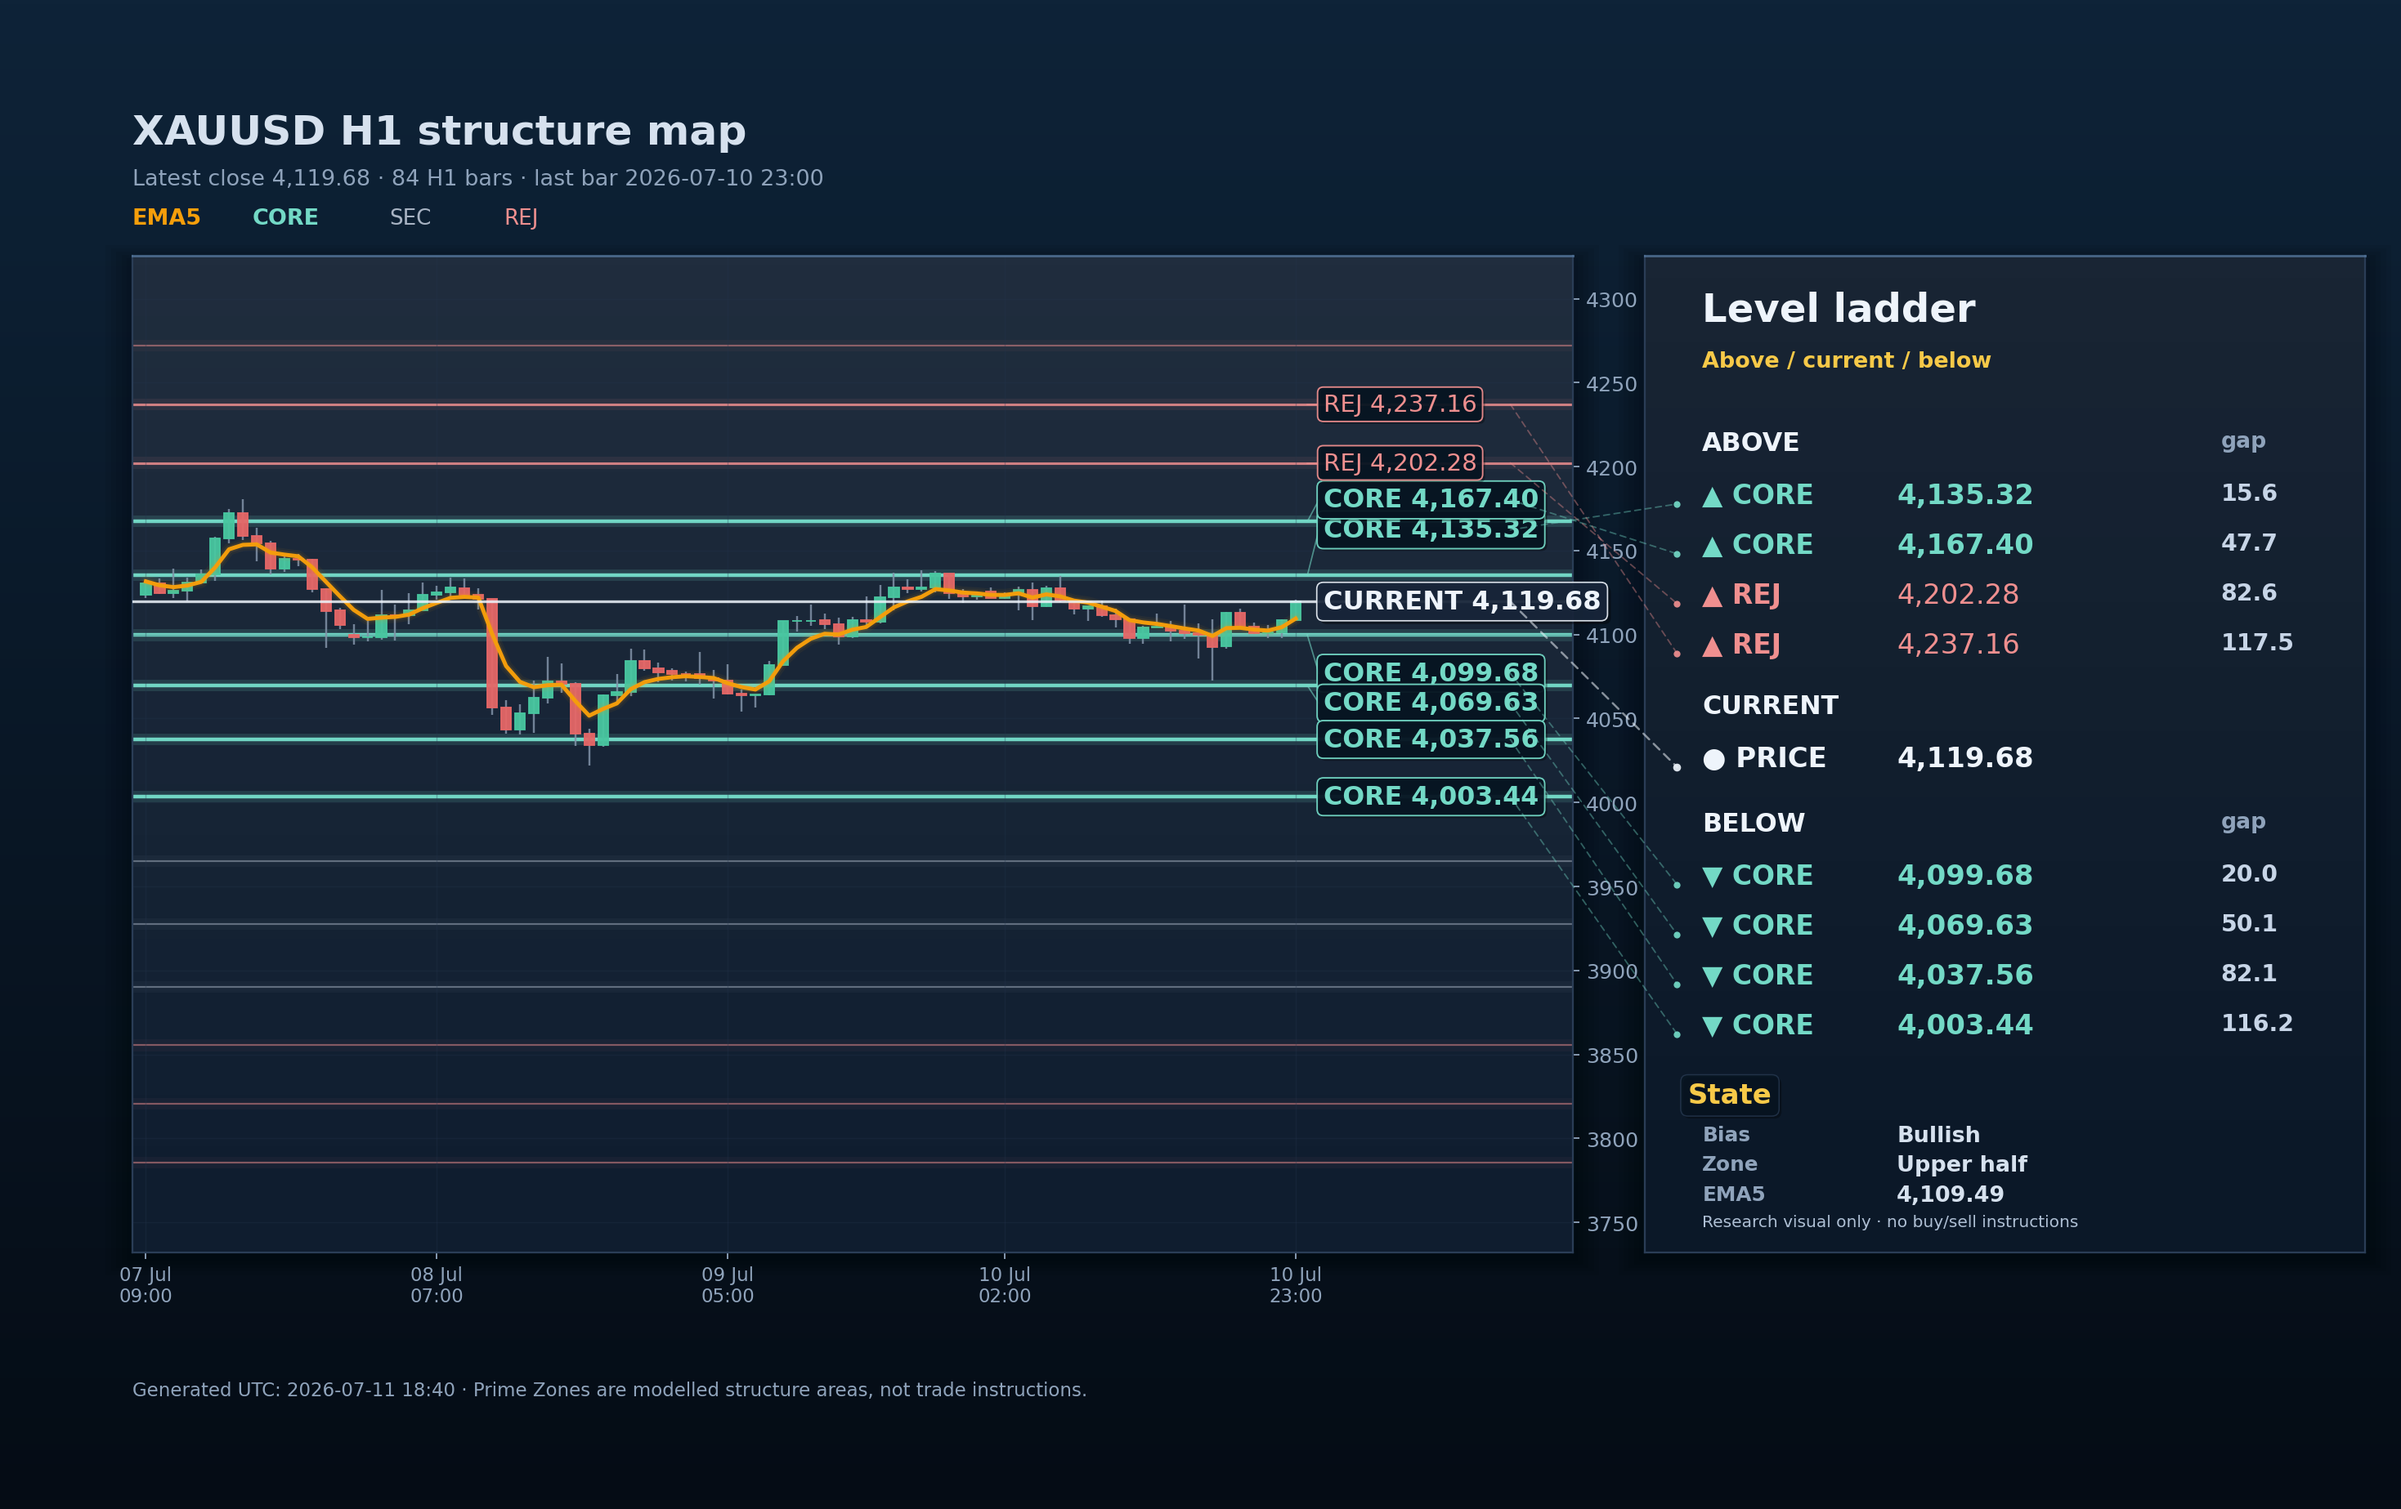
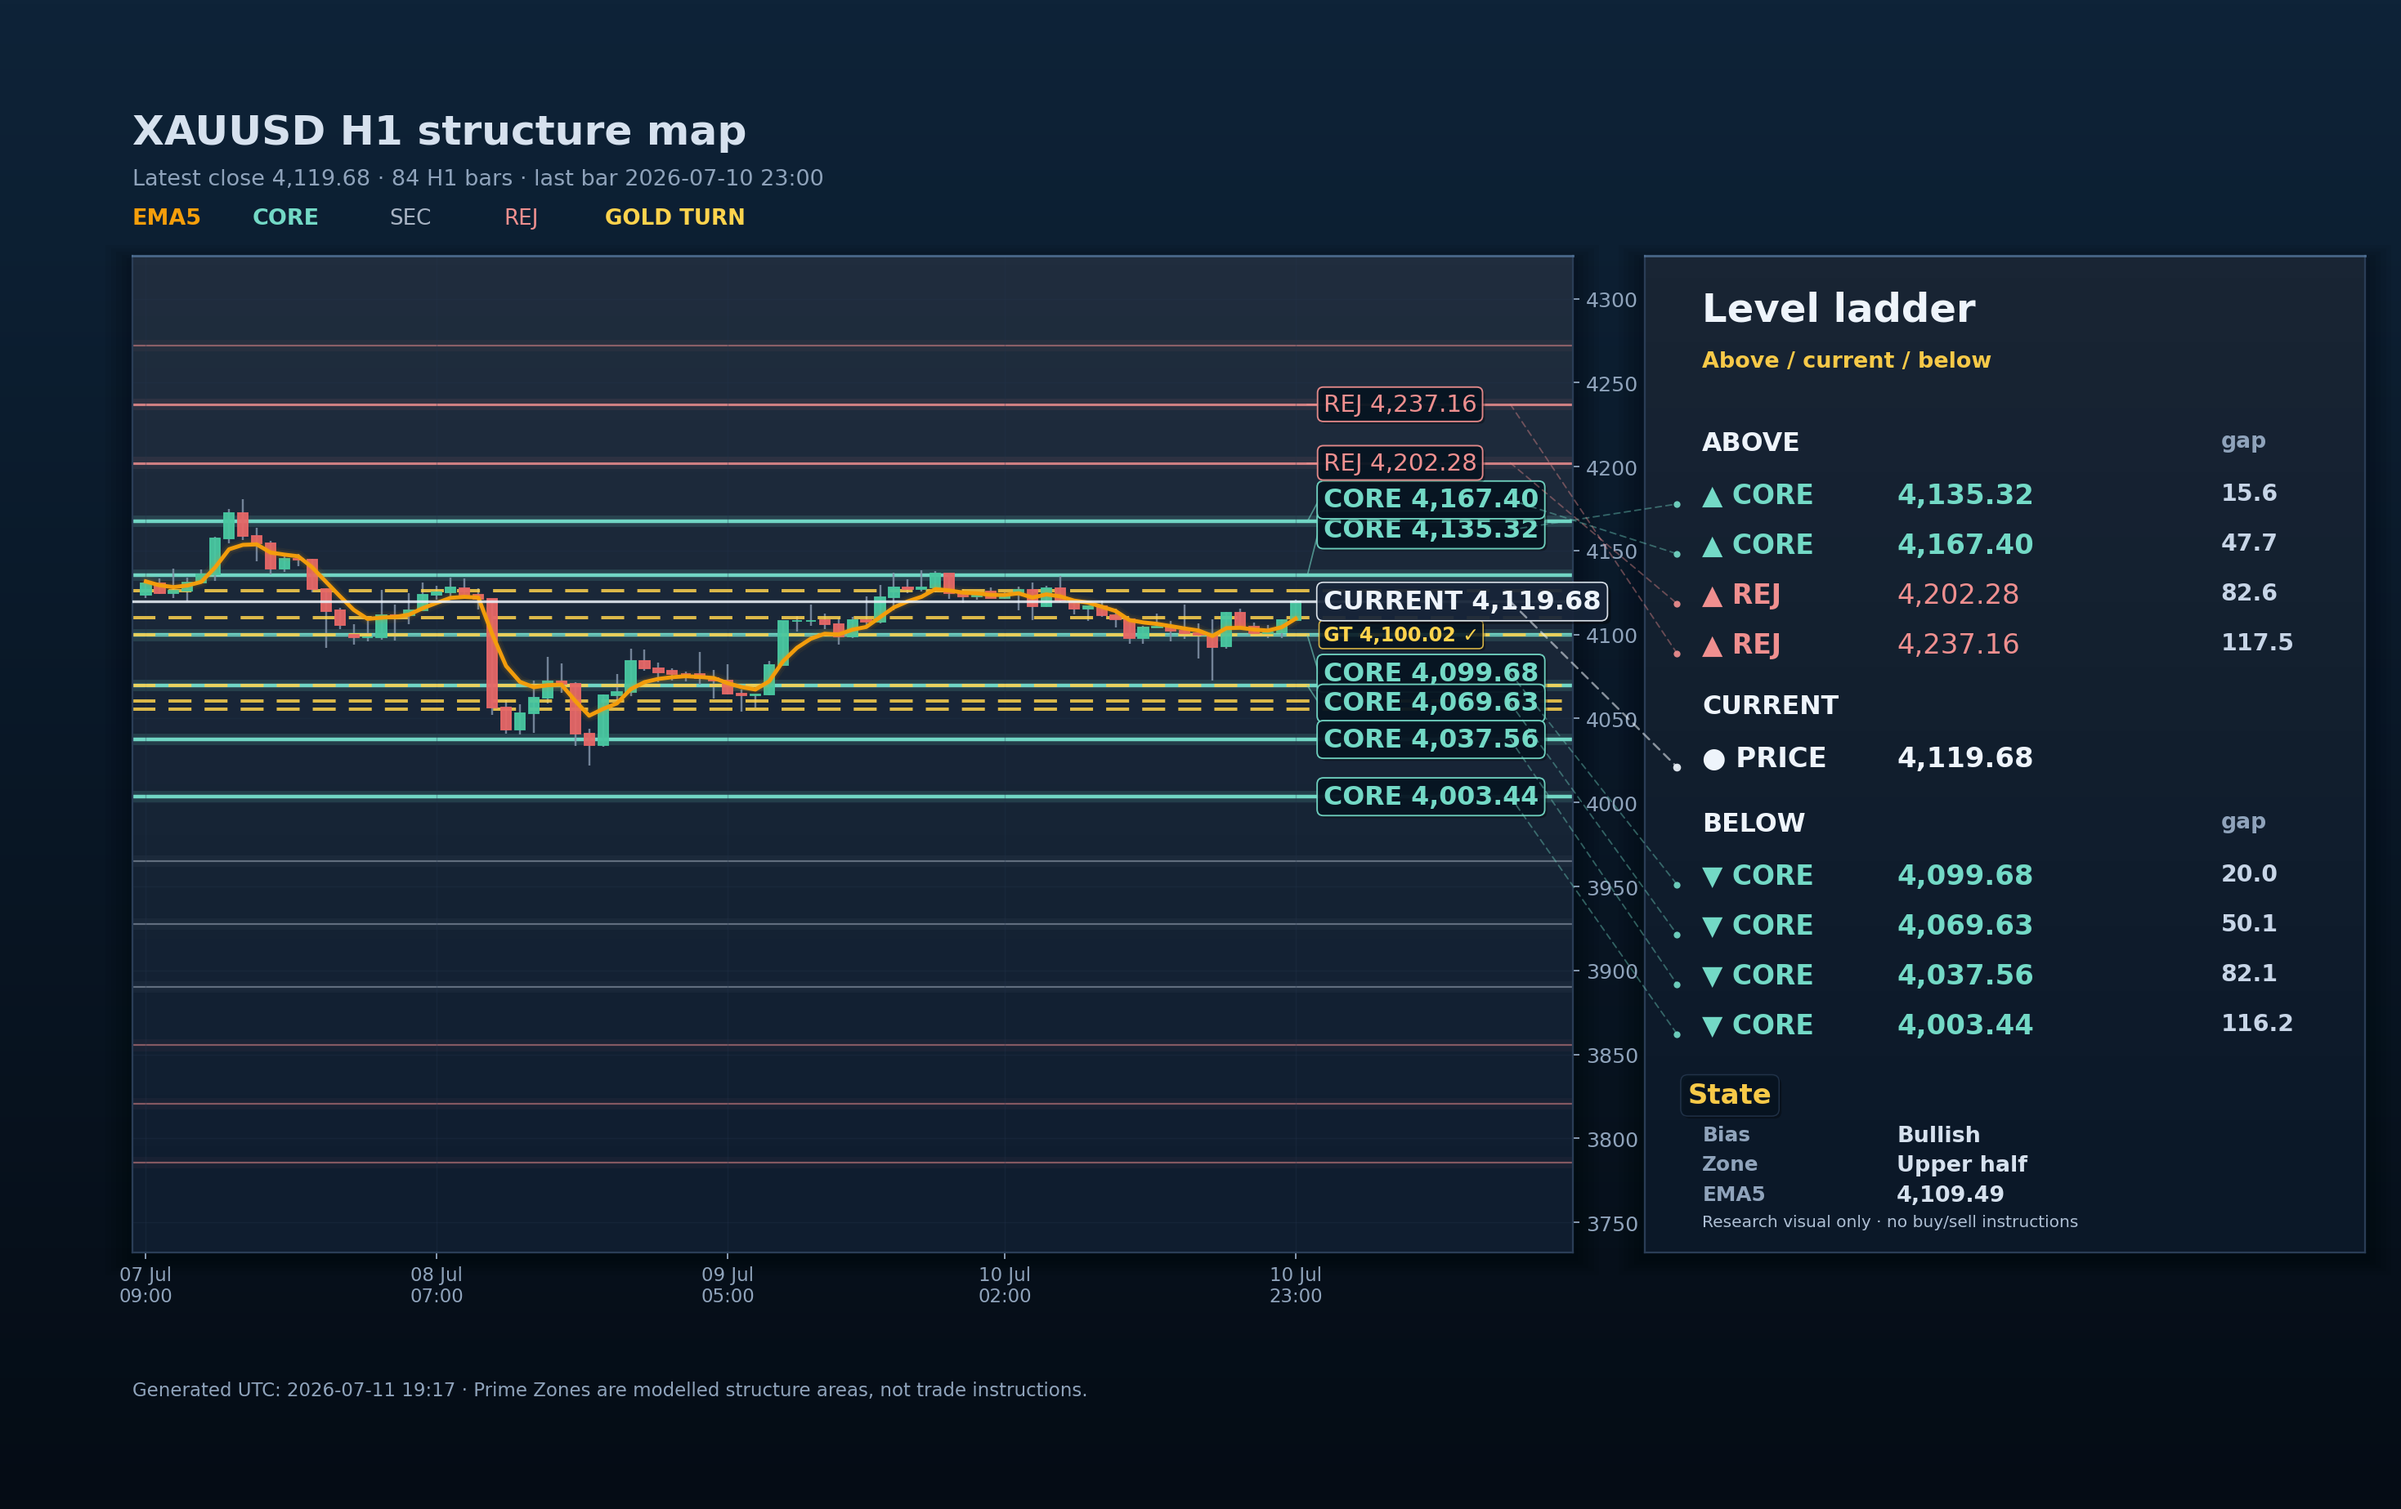
Add weekly Gold Turns: zone-state tracking + dedicated live chart page
EMA5 slope-reversal pivots from prior weeks, frozen once per week
(reconstructed from an abandoned parallel branch, fixing a template
bug that would have crashed the page on first render). Each turn now
carries a "touched" flag - has price wick-touched it since it formed,
reflecting the zone-unlock idea where EMA5 crossing a turn tends to
open the next one in sequence.

New members-weekly-goldturns.html has its own live candlestick+EMA5
chart with the turns overlaid (solid/checked when touched, faint
dotted when still pending), linked from the main dashboard's research
tools grid. Also overlaid on the main structure chart (PNG + live).

Changed region(s): [[0.5267, 0.4012, 0.6197, 0.4321], [0.2479, 0.1234, 0.3098, 0.1543]]

diff --git a/assets/pvfx-goldturns-chart.js b/assets/pvfx-goldturns-chart.js
@@ -1,0 +1,103 @@
+(function () {
+  'use strict';
+
+  var DATA_URL = './data/charts/primeviewfx_members_chart_data_latest.json';
+  var POLL_MS = 45000;
+
+  var COLORS = {
+    bg: '#0f1d2f',
+    grid: '#24354d',
+    text: '#d6e1ee',
+    up: '#48c7a0',
+    down: '#e66767',
+    wick: '#8192a8',
+    ema: '#f59e0b',
+    goldturn: '#ffd34d'
+  };
+
+  function fmtPrice(p) {
+    return Number(p).toLocaleString('en-US', { minimumFractionDigits: 2, maximumFractionDigits: 2 });
+  }
+
+  var chart = null, candleSeries = null, emaSeries = null, priceLines = [];
+
+  function ensureChart(container) {
+    if (chart) return chart;
+    chart = LightweightCharts.createChart(container, {
+      autoSize: true,
+      layout: { background: { type: LightweightCharts.ColorType.Solid, color: COLORS.bg }, textColor: COLORS.text },
+      grid: { vertLines: { color: COLORS.grid }, horzLines: { color: COLORS.grid } },
+      timeScale: { timeVisible: true, secondsVisible: false, borderColor: '#2a3d56' },
+      rightPriceScale: { borderColor: '#2a3d56' },
+      crosshair: { mode: LightweightCharts.CrosshairMode.Normal }
+    });
+    candleSeries = chart.addSeries(LightweightCharts.CandlestickSeries, {
+      upColor: COLORS.up, downColor: COLORS.down, borderVisible: false,
+      wickUpColor: COLORS.wick, wickDownColor: COLORS.wick
+    });
+    emaSeries = chart.addSeries(LightweightCharts.LineSeries, {
+      color: COLORS.ema, lineWidth: 2, priceLineVisible: false, lastValueVisible: false
+    });
+    return chart;
+  }
+
+  function renderGoldturns(goldturns) {
+    priceLines.forEach(function (pl) { candleSeries.removePriceLine(pl); });
+    priceLines = [];
+    (goldturns || []).forEach(function (g) {
+      var touched = !!g.touched;
+      priceLines.push(candleSeries.createPriceLine({
+        price: g.level,
+        color: COLORS.goldturn,
+        lineWidth: touched ? 2 : 1,
+        lineStyle: touched ? LightweightCharts.LineStyle.Dashed : LightweightCharts.LineStyle.SparseDotted,
+        axisLabelVisible: true,
+        title: (touched ? 'GT ✓ ' : 'GT ') + fmtPrice(g.level)
+      }));
+    });
+  }
+
+  function setStatus(el, text, isError) {
+    el.textContent = text;
+    el.classList.toggle('err', !!isError);
+  }
+
+  function load(chartEl, statusEl) {
+    var url = DATA_URL + '?t=' + Date.now();
+    fetch(url, { cache: 'no-store' })
+      .then(function (r) { if (!r.ok) throw new Error('HTTP ' + r.status); return r.json(); })
+      .then(function (data) {
+        ensureChart(chartEl);
+        candleSeries.setData(data.candles);
+        emaSeries.setData(data.ema5);
+        renderGoldturns(data.goldturns);
+        var gen = new Date(data.generated_utc);
+        var stamp = isNaN(gen.getTime()) ? data.generated_utc : gen.toISOString().slice(0, 16).replace('T', ' ') + ' UTC';
+        var touchedCount = (data.goldturns || []).filter(function (g) { return g.touched; }).length;
+        var total = (data.goldturns || []).length;
+        setStatus(statusEl, 'Live · data generated ' + stamp + ' · close ' + fmtPrice(data.latest_close) +
+          ' · ' + touchedCount + '/' + total + ' turns touched this week · refreshes automatically', false);
+      })
+      .catch(function (err) {
+        setStatus(statusEl, 'Could not load live data (' + err.message + ') — showing the last successful load, if any.', true);
+      });
+  }
+
+  function init() {
+    var chartEl = document.getElementById('pvfx-gt-chart');
+    var statusEl = document.getElementById('pvfx-gt-status');
+    if (!chartEl || !statusEl) return;
+    if (typeof LightweightCharts === 'undefined') {
+      setStatus(statusEl, 'Live chart library failed to load.', true);
+      return;
+    }
+    load(chartEl, statusEl);
+    setInterval(function () { load(chartEl, statusEl); }, POLL_MS);
+  }
+
+  if (document.readyState === 'loading') {
+    document.addEventListener('DOMContentLoaded', init);
+  } else {
+    init();
+  }
+})();

diff --git a/members-dashboard.html b/members-dashboard.html
@@ -227,9 +227,9 @@
     .pvfx-clean-chart-foot strong{color:#bcd6f7!important}
     .pvfx-level-key{margin:10px 0 0!important;padding:10px 12px!important;border:1px solid rgba(148,163,184,.20)!important;border-radius:14px!important;background:rgba(15,23,42,.52)!important;box-sizing:border-box!important}
     .pvfx-level-key-title{margin:0 0 7px!important;color:#f7c948!important;font-size:.72rem!important;font-weight:850!important;letter-spacing:.09em!important;text-transform:uppercase!important}
-    .pvfx-level-key-grid{display:grid!important;grid-template-columns:repeat(5,minmax(0,1fr))!important;gap:8px!important;color:#9fb2c9!important;font-size:.72rem!important;line-height:1.25!important}
+    .pvfx-level-key-grid{display:grid!important;grid-template-columns:repeat(6,minmax(0,1fr))!important;gap:8px!important;color:#9fb2c9!important;font-size:.72rem!important;line-height:1.25!important}
     .pvfx-level-key-grid b{display:block!important;margin-bottom:2px!important;font-size:.72rem!important;letter-spacing:.04em!important}
-    .pvfx-key-core{color:#5eead4!important}.pvfx-key-sec{color:#94a3b8!important}.pvfx-key-rej{color:#f87171!important}.pvfx-key-current{color:#e5e7eb!important}.pvfx-key-gap{color:#cbd5e1!important}
+    .pvfx-key-core{color:#5eead4!important}.pvfx-key-sec{color:#94a3b8!important}.pvfx-key-rej{color:#f87171!important}.pvfx-key-current{color:#e5e7eb!important}.pvfx-key-gap{color:#cbd5e1!important}.pvfx-key-goldturn{color:#ffd34d!important}
     .pvfx-qa-compliance-note{width:min(2520px,calc(100vw - 8px));margin:0 auto 34px auto;padding:14px 18px;border:1px solid rgba(148,163,184,.24);border-radius:16px;background:rgba(15,23,42,.55);color:#94a3b8;font-size:13px;line-height:1.55;box-sizing:border-box}
     .pvfx-live-wrap{display:flex!important;flex-direction:row!important;gap:14px!important;align-items:stretch!important;padding:10px!important;box-sizing:border-box!important}
     .pvfx-live-chart-pane{flex:1 1 64%!important;min-width:0!important}
@@ -497,6 +497,20 @@
           </div>
           <a class="primeviewfx-research-tool-link" href="cascade-research-summary.html">Open</a>
         </article>
+
+        <article class="primeviewfx-research-tool-card">
+          <div class="primeviewfx-research-tool-card-top">
+            <span class="primeviewfx-research-tool-badge">Weekly structure</span>
+            <span class="primeviewfx-research-tool-status">Available</span>
+          </div>
+          <h3>Weekly Gold Turns</h3>
+          <p>EMA5 zone pivots frozen for the week, live chart, touched/pending state per turn.</p>
+          <div class="primeviewfx-research-tool-meta">
+            <span>Live chart</span>
+            <span>Data OK</span>
+          </div>
+          <a class="primeviewfx-research-tool-link" href="members-weekly-goldturns.html">Open</a>
+        </article>
   </div>
 </section>
 <!-- PRIMEVIEWFX_RESEARCH_TOOLS_NAV_V1_END -->
@@ -531,6 +545,7 @@
             <span><b class="pvfx-key-rej">REJ</b>Rejection / extension watch</span>
             <span><b class="pvfx-key-current">CURRENT</b>Current market price</span>
             <span><b class="pvfx-key-gap">gap</b>Distance from current price</span>
+            <span><b class="pvfx-key-goldturn">GT</b>Weekly EMA5 gold turn pivot</span>
           </div>
         </div>
         <div class="pvfx-clean-chart-foot">

diff --git a/members-weekly-goldturns.html b/members-weekly-goldturns.html
@@ -1,0 +1,1 @@
+<!doctype html><html lang="en"><head><meta charset="utf-8"><title>PrimeViewFX Weekly Gold Turns</title><meta name="viewport" content="width=device-width, initial-scale=1"><style>body{margin:0;background:#071522;color:#d6e1ee;font-family:Inter,system-ui,Segoe UI,Arial,sans-serif}.wrap{max-width:1120px;margin:0 auto;padding:28px}.card{border:1px solid #2a3d56;border-radius:18px;background:#0f1d2f;padding:18px;margin-top:16px}a{color:#93c5fd}p{color:#aebfd4;line-height:1.55}table{width:100%;border-collapse:collapse}th,td{border-bottom:1px solid #24354d;padding:10px 8px;text-align:left}th{color:#f7c948}#pvfx-gt-chart{width:100%;height:480px;border-radius:12px;overflow:hidden;background:#0f1d2f}.gt-status{margin:8px 2px 0;color:#8fa3bb;font-size:.8rem}.gt-status.err{color:#f0b44c}</style></head><body><main class="wrap"><h1>PrimeViewFX Weekly Gold Turns</h1><p>Member weekly structure reference: EMA5 slope-reversal pivots from prior weeks, frozen once per week. The idea is zones, not a fixed target — once EMA5 crosses a turn it tends to open the next one in sequence, often wick-touching it before reversing or continuing on to the next cross. Research visual only. No buy/sell instructions. Not financial advice.</p><div class="card"><div id="pvfx-gt-chart"></div><div class="gt-status" id="pvfx-gt-status">Connecting to live data…</div></div><div class="card"><p><strong>Week start:</strong> 2026-07-06<br><strong>Created UTC:</strong> 2026-07-11T19:09:14.025776+00:00<br><strong>Method:</strong> weekly_freeze_from_prior_ema5_turns</p><table><thead><tr><th>Turn time</th><th>Level</th><th>Type</th><th>Zone state</th></tr></thead><tbody><tr><td>2026-07-08 19:00</td><td>4,055.73</td><td>support turn</td><td>Touched</td></tr><tr><td>2026-07-08 17:00</td><td>4,060.45</td><td>resistance turn</td><td>Touched</td></tr><tr><td>2026-07-08 15:00</td><td>4,069.86</td><td>support turn</td><td>Touched</td></tr><tr><td>2026-07-09 13:00</td><td>4,100.02</td><td>resistance turn</td><td>Touched</td></tr><tr><td>2026-07-08 03:00</td><td>4,110.10</td><td>support turn</td><td>Touched</td></tr><tr><td>2026-07-09 21:00</td><td>4,126.26</td><td>resistance turn</td><td>Touched</td></tr></tbody></table><p><a href="data/goldturns/primeviewfx_weekly_goldturns_latest.json">JSON</a> · <a href="data/goldturns/primeviewfx_weekly_goldturns_latest.csv">CSV</a></p></div><p><a href="members-dashboard.html">Back to members dashboard</a></p></main><script src="./assets/lightweight-charts.standalone.production.js"></script><script src="./assets/pvfx-goldturns-chart.js"></script></body></html>

diff --git a/assets/pvfx-live-chart.js b/assets/pvfx-live-chart.js
@@ -16,7 +16,8 @@
     core: '#73d9c6',
     secondary: '#a8b3c3',
     reject: '#ef8f8f',
-    current: '#eef4fb'
+    current: '#eef4fb',
+    goldturn: '#ffd34d'
   };
 
   var LABEL_COLOR = { CORE: COLORS.core, SECONDARY: COLORS.secondary, REJECT: COLORS.reject };
@@ -67,7 +68,7 @@
     return chart;
   }
 
-  function renderLevels(levels, latestClose) {
+  function renderLevels(levels, latestClose, goldturns) {
     priceLines.forEach(function (pl) { candleSeries.removePriceLine(pl); });
     priceLines = [];
     levels.forEach(function (lv) {
@@ -80,6 +81,18 @@
         lineStyle: LightweightCharts.LineStyle.Solid,
         axisLabelVisible: true,
         title: tag + ' ' + fmtPrice(lv.price)
+      }));
+    });
+    // Weekly Gold Turns — EMA5 slope-reversal pivots frozen for the week,
+    // dashed and colour-distinct so they never read as a published level.
+    (goldturns || []).forEach(function (g) {
+      priceLines.push(candleSeries.createPriceLine({
+        price: g.level,
+        color: COLORS.goldturn,
+        lineWidth: 1,
+        lineStyle: LightweightCharts.LineStyle.Dashed,
+        axisLabelVisible: true,
+        title: 'GT ' + fmtPrice(g.level)
       }));
     });
     priceLines.push(candleSeries.createPriceLine({
@@ -166,7 +179,7 @@
         ensureChart(chartEl);
         candleSeries.setData(data.candles);
         emaSeries.setData(data.ema5);
-        renderLevels(data.levels, data.latest_close);
+        renderLevels(data.levels, data.latest_close, data.goldturns);
         renderLadder(ladderEl, data);
         var gen = new Date(data.generated_utc);
         var stamp = isNaN(gen.getTime()) ? data.generated_utc : gen.toISOString().slice(0, 16).replace('T', ' ') + ' UTC';
